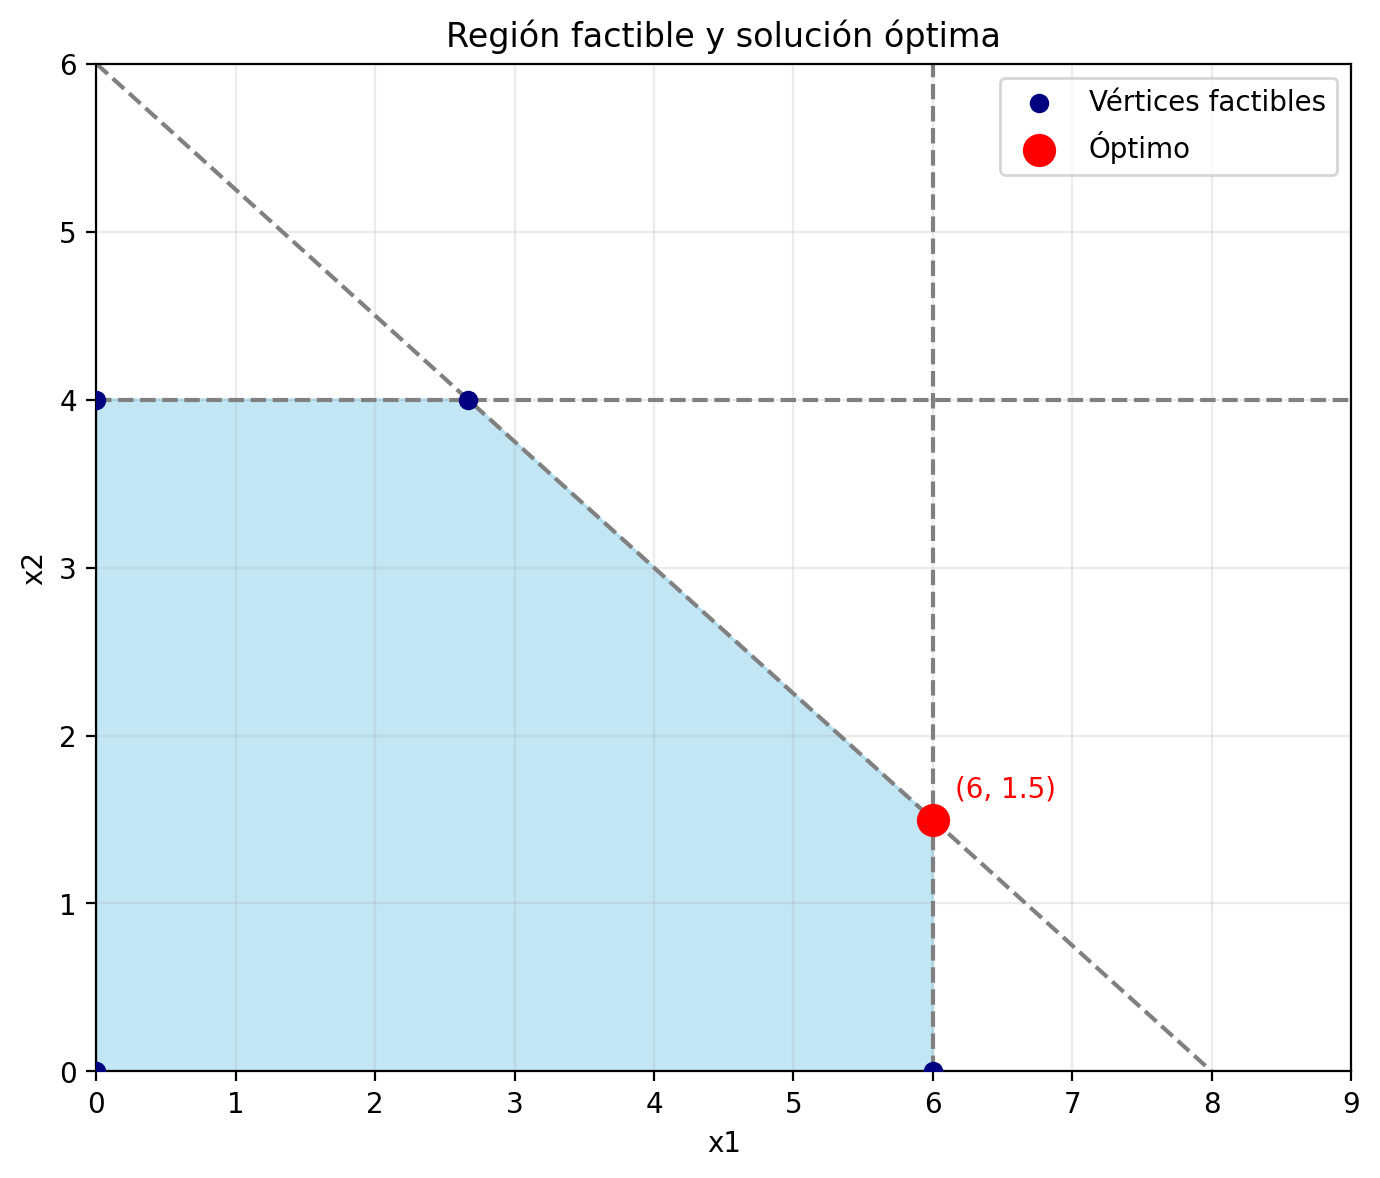
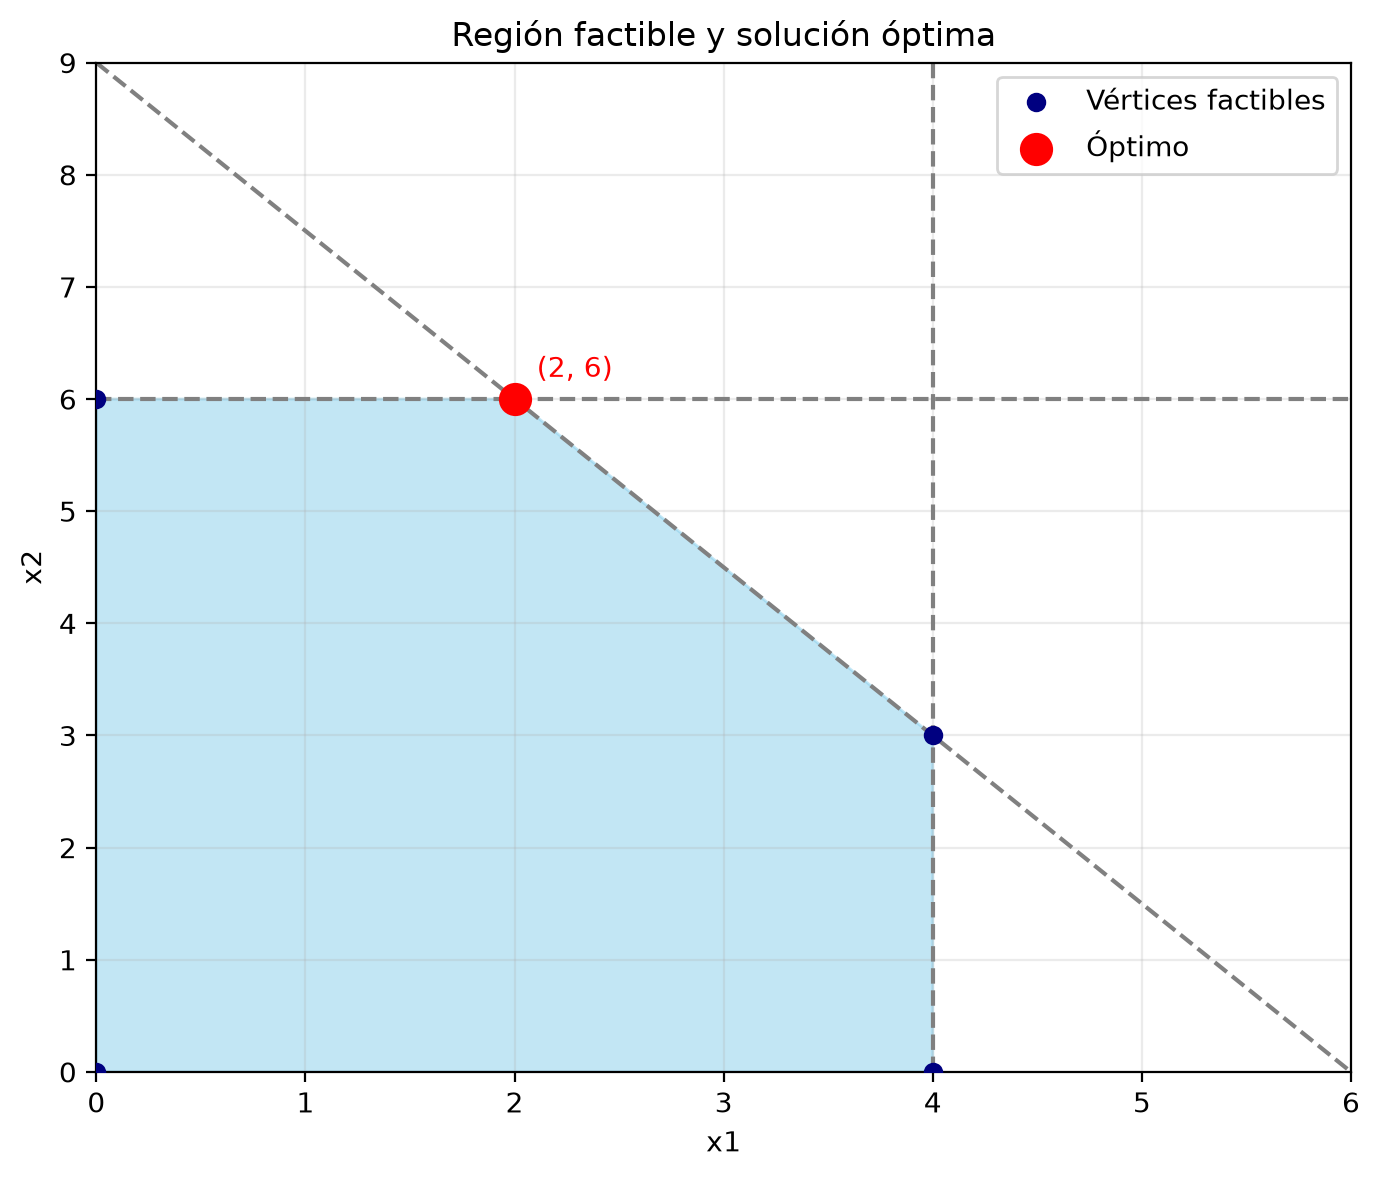
imagen de metodo grafico en gitignore

diff --git a/metodo_simplex.py b/metodo_simplex.py
@@ -1,17 +1,17 @@
 # Metodo simplex
 
 try:
-    from .aritmetica import Frac, fmt
+    from .numeros import fmt, EPS
     from .tablas import imprimir_tabla
 except ImportError:
-    from aritmetica import Frac, fmt
+    from numeros import fmt, EPS
     from tablas import imprimir_tabla
 
 
 # Valida restricciones
 def validar(restricciones):
     for (*_, signo, b) in restricciones:
-        if signo != '<=' or b < 0:
+        if signo != '<=' or b < -EPS:
             raise ValueError("El simplex estándar requiere restricciones '<=' con b >= 0.")
 
 
@@ -19,7 +19,7 @@ def validar(restricciones):
 def tabla_inicial(restricciones, m):
     tabla = []
     for i, (*coefs, signo, b) in enumerate(restricciones): #cada restriccion se vuelve de igualdad agregando una variable de holgura
-        holguras = [Frac(1) if k == i else Frac(0) for k in range(m)]
+        holguras = [1.0 if k == i else 0.0 for k in range(m)]
         tabla.append(list(coefs) + holguras + [b])
     return tabla
 
@@ -35,7 +35,7 @@ def calcular_cj_zj(tabla, base, c_ext):
 
 # Fila que sale (razón mínima)
 def fila_que_sale(tabla, col):
-    candidatas = [i for i in range(len(tabla)) if tabla[i][col] > 0] # Filas con elementos positivos en la columna
+    candidatas = [i for i in range(len(tabla)) if tabla[i][col] > EPS] # Filas con elementos positivos en la columna
     if not candidatas:
         print(">>> No hay filas con elementos positivos en la columna.")
         return None #el problema es no acotado
@@ -48,7 +48,7 @@ def pivotear(tabla, fila, col):
     tabla[fila] = [v / piv for v in tabla[fila]] #divide la fila pivote por el elemento pivote para que el pivote sea 1
     for i in range(len(tabla)):
         factor = tabla[i][col]
-        if i != fila and factor != 0:
+        if i != fila and abs(factor) > EPS:
             tabla[i] = [v - factor * p for v, p in zip(tabla[i], tabla[fila])]
 #fila nueva = fila vieja - factor * fila pivote, para que el elemento de la columna pivote sea 0
 
@@ -63,7 +63,7 @@ def metodo_simplex(c, restricciones, tipo):
 
     #Minimizar
     c_obj = [-v for v in c] if es_min else list(c)
-    c_ext = c_obj + [Frac(0)] * m
+    c_ext = c_obj + [0.0] * m
     nombres = [f"x{i+1}" for i in range(n_vars)] + [f"s{i+1}" for i in range(m)]
 
     tabla = tabla_inicial(restricciones, m)
@@ -88,7 +88,7 @@ def metodo_simplex(c, restricciones, tipo):
         imprimir_tabla(encabezados, filas_tabla, titulo=f"Iteración {iteracion}")
 
         col_entra = max(range(n_total), key=lambda j: cj_zj[j])
-        if cj_zj[col_entra] <= 0:
+        if cj_zj[col_entra] <= EPS:
             break
 
         fila_sale = fila_que_sale(tabla, col_entra)
@@ -103,7 +103,7 @@ def metodo_simplex(c, restricciones, tipo):
         base[fila_sale] = col_entra
         iteracion += 1
 
-    solucion = {nombre: Frac(0) for nombre in nombres}
+    solucion = {nombre: 0.0 for nombre in nombres}
     for i, k in enumerate(base):
         solucion[nombres[k]] = tabla[i][-1]
 
